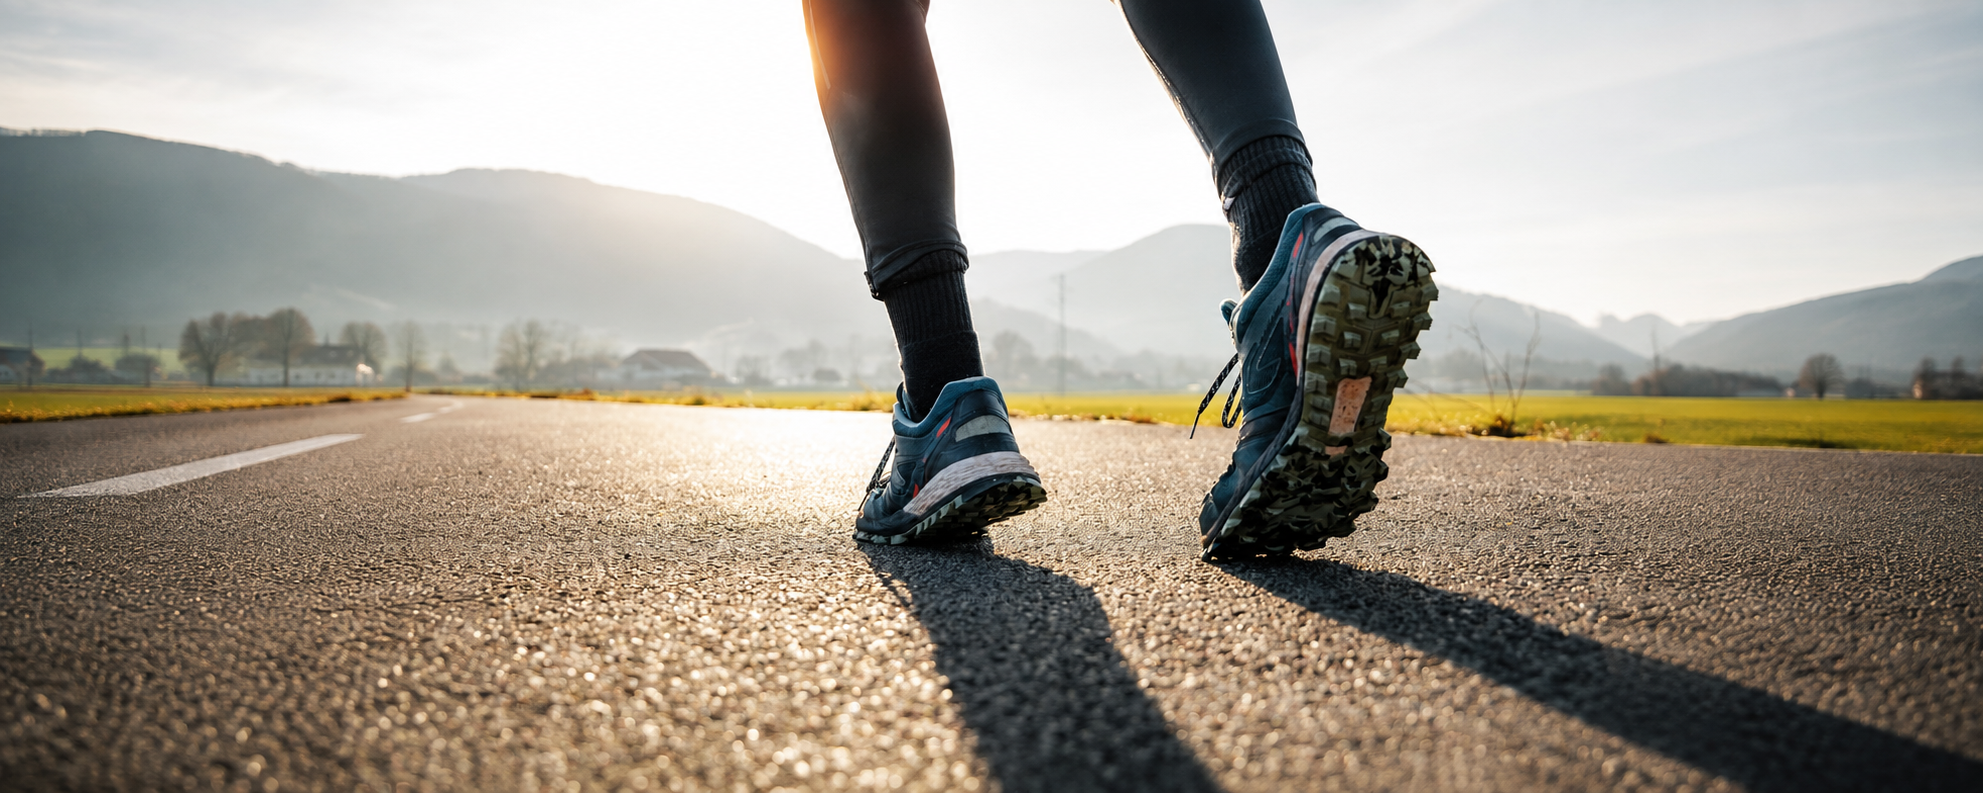
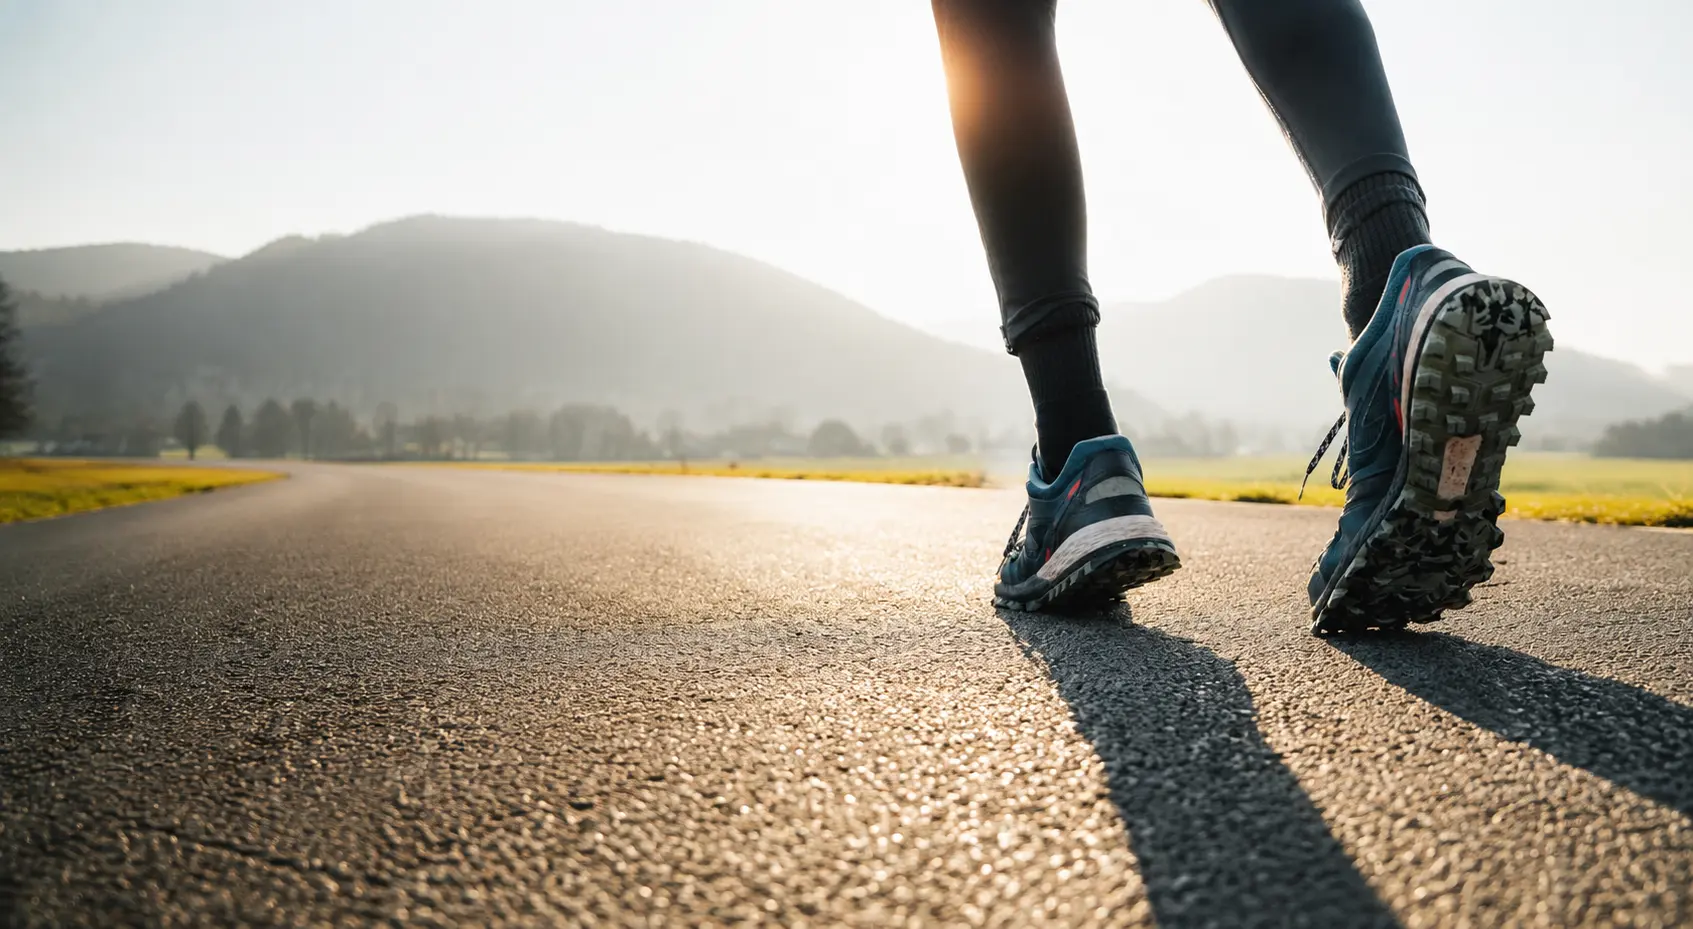
feat(dashboard): implement search functionality for product filtering

diff --git a/user-login.css b/user-login.css
@@ -26,11 +26,46 @@ body {
 }
 
 .page-bg {
-    background:linear-gradient(180deg, #b4c290 20%, #cdd5b7 60%);
+    background: linear-gradient(180deg, #b4c290 20%, #cdd5b7 60%);
     display: flex;
     justify-content: center;
     height: 100vh;
     padding: clamp(0.625rem, -2.232rem + 5.71vw, 3.125rem);
+    position: relative;
+    overflow: hidden;
+}
+
+
+.page-bg::before,
+.page-bg::after {
+    content: "";
+    position: absolute;
+    z-index: 0;
+    pointer-events: none;
+}
+
+.page-bg::before {
+    width: 25vw;
+    height: 25vw;
+    background: rgba(255, 255, 255, 0.12);
+    border-radius: 60% 40% 30% 70% / 60% 30% 70% 40%;
+    top: -10%;
+    left: -12%;
+    transform: rotate(-15deg);
+}
+
+.page-bg::after {
+    width: 35vw;
+    height: 25vw;
+    background: rgba(0, 0, 0, 0.06);
+    border-radius: 40% 60% 70% 30% / 40% 70% 30% 60%;
+    bottom: -18%;
+    right: -15%;
+    transform: rotate(20deg);
+}
+
+section {
+    z-index: 1;
 }
 
 #error-box {
@@ -141,7 +176,10 @@ main {
     width: 100%;
 }
 
-.name-container, .email-container, .pass-container, .confirm-pass-container {
+.name-container,
+.email-container,
+.pass-container,
+.confirm-pass-container {
     display: flex;
     border: 1px solid var(--icon-bg);
     background-color: rgba(255, 255, 255, 0.411);
@@ -218,36 +256,36 @@ main {
 
 /* LOADER */
 .loader {
-  border: 4px solid rgba(0, 0, 0, .1);
-  border-left-color: transparent;
-  border-radius: 50%;
-  background-color: none;
+    border: 4px solid rgba(0, 0, 0, .1);
+    border-left-color: transparent;
+    border-radius: 50%;
+    background-color: none;
 
 }
 
 .loader {
-  border: 4px solid rgba(0, 0, 0, .1);
-  border-left-color: transparent;
-  width: 36px;
-  height: 36px;
+    border: 4px solid rgba(0, 0, 0, .1);
+    border-left-color: transparent;
+    width: 36px;
+    height: 36px;
 }
 
 .loader {
-  border: 4px solid var(--light-surface);
-  border-left-color: transparent;
-  width: 22px;
-  height: 22px;
-  animation: spin89345 1s linear infinite;
+    border: 4px solid var(--light-surface);
+    border-left-color: transparent;
+    width: 22px;
+    height: 22px;
+    animation: spin89345 1s linear infinite;
 }
 
 @keyframes spin89345 {
-  0% {
-    transform: rotate(0deg);
-  }
+    0% {
+        transform: rotate(0deg);
+    }
 
-  100% {
-    transform: rotate(360deg);
-  }
+    100% {
+        transform: rotate(360deg);
+    }
 }
 
 .option {
@@ -297,8 +335,8 @@ main {
     width: clamp(22.5rem, -12.857rem + 70.71vw, 53.438rem);
     position: relative;
     z-index: 10;
-    right: -90px;
-    bottom: 36px;
+    right: -105px;
+    bottom: 65px;
     align-self: center;
     overflow: visible;
 }
@@ -402,8 +440,8 @@ main {
         padding: 5px;
     }
 
-    #error-box{
-        top: 150px;
+    #error-box {
+        top: 130px;
     }
 
     section {
@@ -460,4 +498,3 @@ main {
         font-size: 12px;
     }
 }
-

diff --git a/admin/admin-dashboard/dashboard.js b/admin/admin-dashboard/dashboard.js
@@ -156,7 +156,7 @@ popupModal.addEventListener("click", () => {
 
 const cancelModal = () => {
     modal.classList.add("no-display")
-    
+
     allModalInputs.forEach((modalInput) => {
         modalInput.value = ""
     })
@@ -278,3 +278,22 @@ const toggleActive = (key) => {
     )
 }
 window.toggleActive = toggleActive
+
+
+// SEARCH QUERY
+const searchQuery = document.getElementById("search-query")
+searchQuery.addEventListener("input", (event) => {
+    const term = event.target.value.trim().toLowerCase();
+
+    let filtered
+
+    if (term === "") {
+        filtered = cachedProducts
+    } else {
+        filtered = cachedProducts.filter(([key, productDetails]) =>
+            String(productDetails.productName ?? "").toLowerCase().includes(term)
+        )
+    }
+
+    filterAndDisplay(filtered)
+})

diff --git a/index.html b/index.html
@@ -120,7 +120,7 @@
 
 
                 <div class="form-image">
-                    <img src="/assets/ChatGPT-Image-Aug-24,-2026,-12_29_40-PM.webp" alt="">
+                    <img src="/assets/login_shoe_Img.webp" alt="">
 
                     <div class="features">
                         <span>

diff --git a/client/user-page/shop.css b/client/user-page/shop.css
@@ -116,7 +116,7 @@ nav {
 .advert {
     font-family: var(--poppins);
     display: flex;
-    background-image: url(/assets/banner_two.png);
+    background-image: url(/assets/banner.png);
     background-size: cover;
     background-position: center;
     background-repeat: no-repeat;
